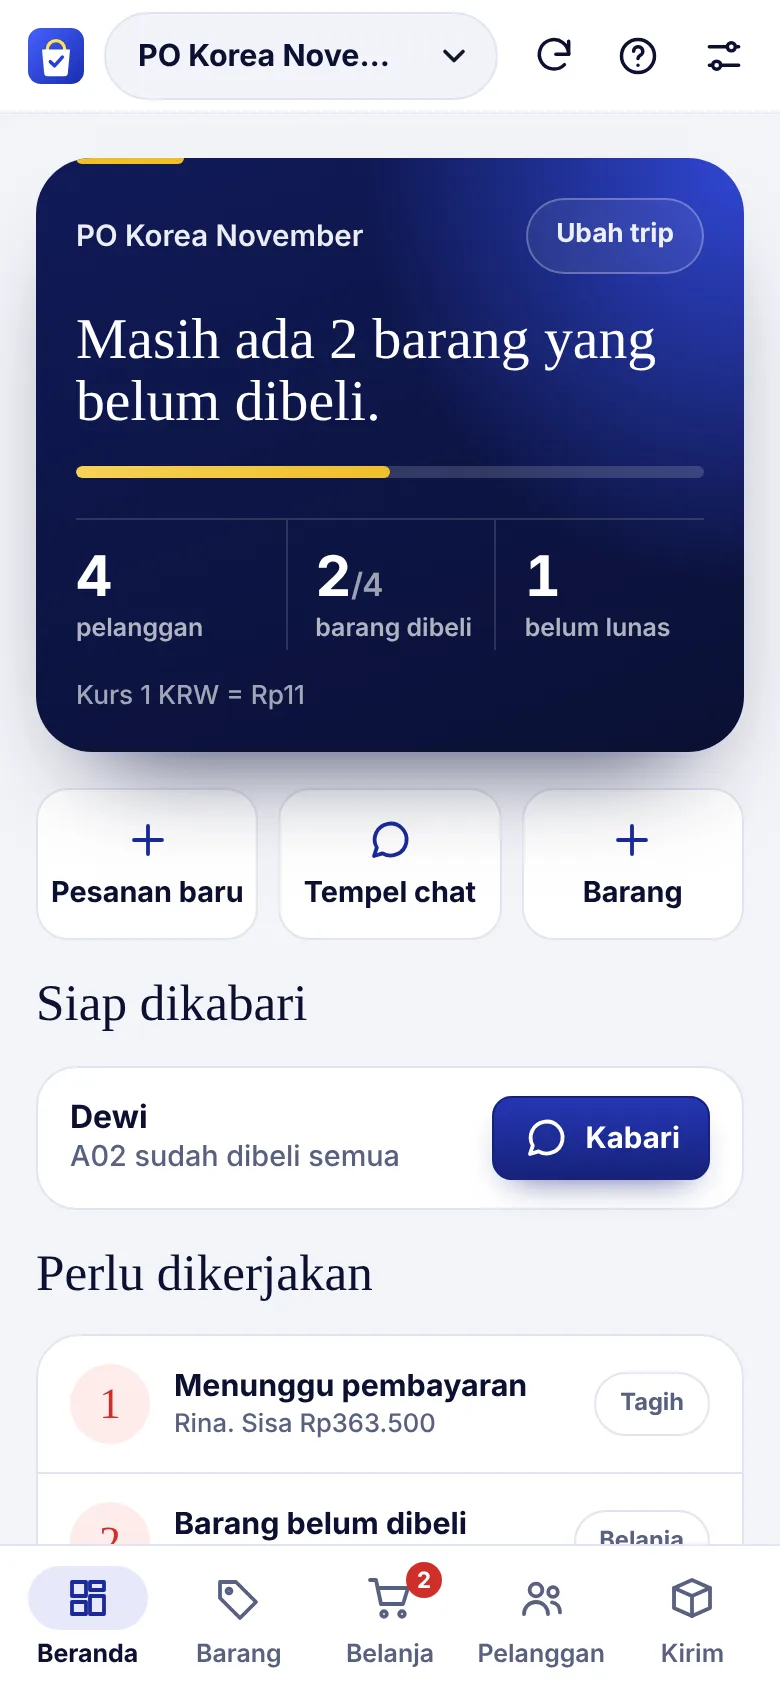
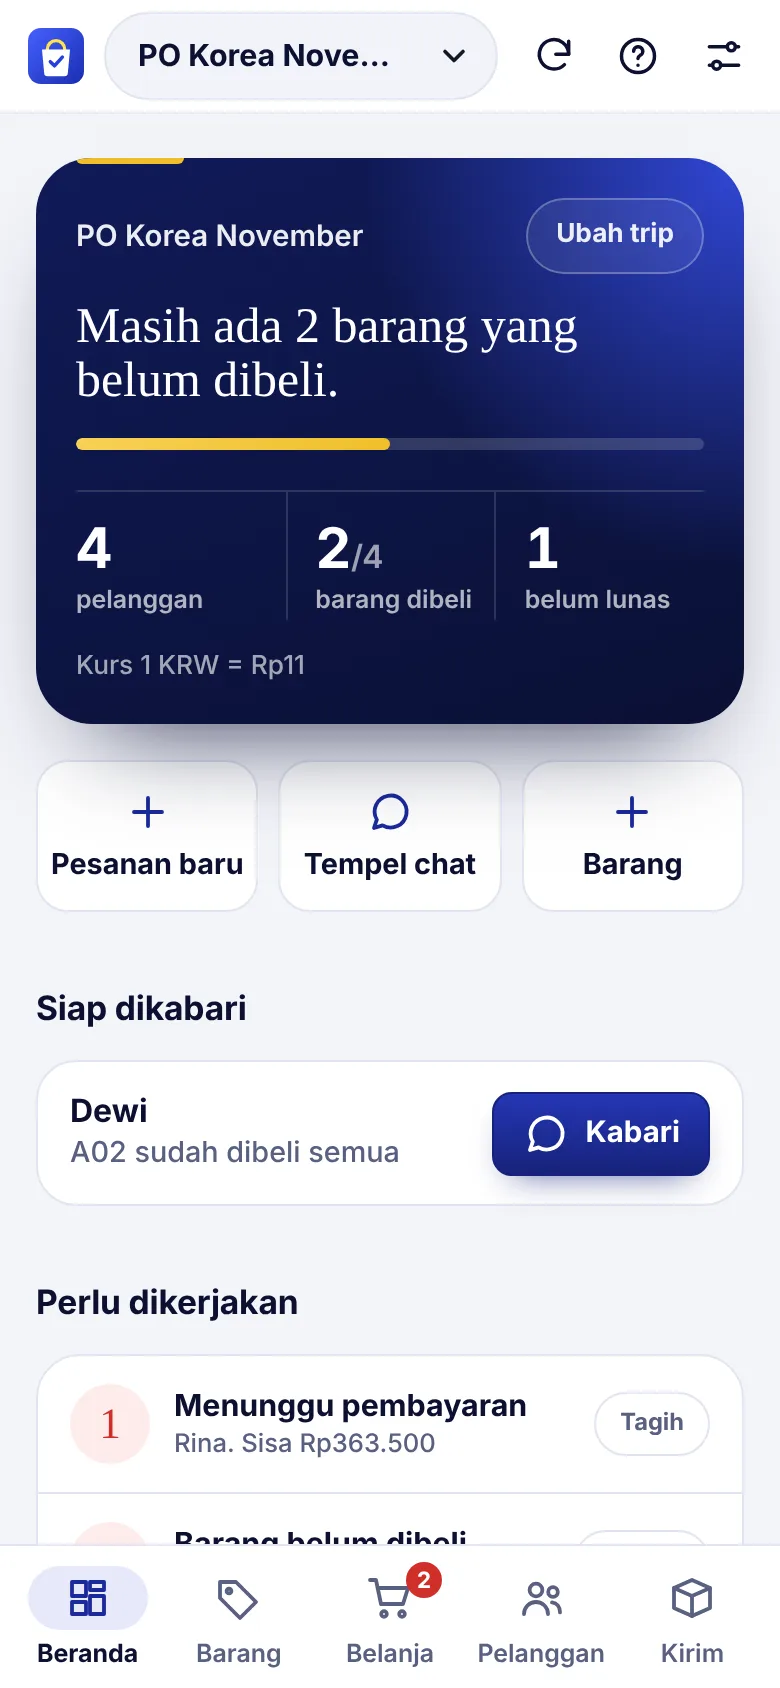
Beranda owner lebih ringkas: tiga kotak status pelanggan, rincian untung dilipat, judul bagian seragam
Claude-Session: https://claude.ai/code/session_01Umsz8aQAUh9Fd5wyBKCHqJ

diff --git a/app.html b/app.html
@@ -693,6 +693,22 @@ details.more summary,.chipf{overflow-wrap:anywhere}
 
 .phero .pacts .btn{flex:0 0 auto;min-height:40px;padding:0 16px;font-size:.9rem}
 .groups .sec>.label>span:first-child{font-family:var(--f-body);font-weight:700;font-size:1.05rem;letter-spacing:-.005em}
+
+/* v2: beranda owner */
+.tri{display:grid;grid-template-columns:repeat(3,1fr);gap:10px}
+.tri-c{display:flex;flex-direction:column;align-items:flex-start;gap:4px;padding:14px;border:1px solid var(--rule);border-radius:18px;background:var(--surface);color:var(--ink);text-align:left;cursor:pointer;min-height:84px}
+.tri-c b{font-size:1.6rem;line-height:1;font-weight:700}
+.tri-c span{font-size:.82rem;color:var(--muted);font-weight:600;line-height:1.2}
+.tri-c.bad b{color:var(--red)}.tri-c.ok b{color:var(--green)}
+.tri-c:active{transform:scale(.98)}
+details.more{margin-top:4px}
+details.more>summary,details.gain-more>summary{list-style:none;cursor:pointer;min-height:44px;display:flex;align-items:center;font-weight:700;font-size:.9rem;color:var(--accent)}
+details.more>summary::-webkit-details-marker,details.gain-more>summary::-webkit-details-marker{display:none}
+details.gain-more[open]>summary{margin-bottom:6px}
+.gain-more .sh.sm{font-size:.95rem;margin:18px 0 4px}
+
+.sh,h2.sh{font-family:var(--f-body)!important;font-weight:700;font-size:1.05rem;letter-spacing:-.005em;margin:22px 0 10px}
+.lux-h{font-size:clamp(1.5rem,6.4vw,2rem);margin:14px 0 14px}
 </style>
 </head>
 <body>
@@ -1749,9 +1765,11 @@ function viewHome(C){
         (wa?'<a class="btn sm primary" target="_blank" rel="noopener" data-told="'+c.c.id+'" href="https://wa.me/'+wa+'?text='+encodeURIComponent(waReady(c,t))+'">'+ico('wa')+'Kabari</a>':'<button class="btn sm" data-act="cust-open" data-id="'+c.c.id+'">Isi nomor WA</button>')+'</div>'}).join('')+'</div></div>';
     var cnt={},tot=0;C.custs.forEach(function(c){if(c.stage!=='none'){cnt[c.stage]=(cnt[c.stage]||0)+1;tot++}});
     var lunasN=C.custs.filter(function(c){return c.stage!=='none'&&c.tagihan>0&&c.sisa<=0}).length;
-    pipeHtml='<div class="card"><h2 class="sh">Status pelanggan</h2><div class="pipe">'+STAGE.map(function(s){var n=cnt[s[0]]||0;
-      return '<button class="pr-row" data-act="stage" data-f="'+s[0]+'"><span class="pl">'+s[1]+'</span><span class="pt"><i class="s-'+s[2]+'" style="width:'+(tot?Math.max(n?6:0,Math.round(n/tot*100)):0)+'%"></i></span><b class="num">'+n+'</b></button>'}).join('')+
-      '</div><div class="okpill" style="margin-top:12px">'+dic('check')+'Lunas '+lunasN+' dari '+tot+' pelanggan</div></div>';
+    var nB=cnt.bayar||0,nS=cnt.sent||0,nM=Math.max(0,tot-nB-nS);
+    pipeHtml='<section class="sec"><h2 class="sh">Pelanggan</h2><div class="tri">'+
+      '<button class="tri-c bad" data-act="stage" data-f="bayar"><b class="num">'+nB+'</b><span>Belum bayar</span></button>'+
+      '<button class="tri-c" data-act="tab" data-tab="kirim"><b class="num">'+nM+'</b><span>Siap diproses</span></button>'+
+      '<button class="tri-c ok" data-act="tab" data-tab="kirim"><b class="num">'+nS+'</b><span>Sudah terkirim</span></button></div></section>';
   }
   var nCust=C.custs.filter(function(c){return c.tagihan>0||c.rows.length||c.wait.length||c.habis.length}).length;
   var net=T.estRev+T.ong-T.estCost-(+t.biayaLain||0);
@@ -1760,16 +1778,16 @@ function viewHome(C){
     '<dl class="lux-st"><div><dd>'+nCust+'</dd><dt>pelanggan</dt></div><div><dd>'+doneN+'<small>/'+T.codes+'</small></dd><dt>barang dibeli</dt></div><div><dd>'+piut.length+'</dd><dt>belum lunas</dt></div></dl>'+
     (meta?'<p class="lux-meta">'+meta+'</p>':'')+'</section>'+
     '<div class="quick"><button class="btn" data-act="line-new">'+ico('plus')+'Pesanan baru</button><button class="btn" data-act="import-open">'+ico('wa')+'Tempel chat</button><button class="btn" data-act="item-new">'+ico('plus')+'Barang</button></div>'+siapHtml+
-    '<section class="sec"><h2 class="sh">Perlu dikerjakan</h2><div class="prio">'+(rows.length?rows.join(''):'<div class="okpill">'+dic('check')+'Tidak ada yang tertunda.</div>')+'</div></section></div>';
-  h+='<div class="col">'+(owner?'<section class="gain"><div class="gain-l">Perkiraan untung bersih</div><div class="gain-v">'+rp(net)+'</div><div class="gain-s">Margin '+(T.estRev>0?Math.round(net/T.estRev*100):0)+'% dari omzet</div>'+'<button class="linkbtn" data-act="trip-edit" style="margin-top:8px">Fee jastip '+nf(t.feePct||0)+'%'+(+t.feeFlat?' + Rp'+nf(t.feeFlat)+'/barang':'')+' · Ubah</button>'+
-      '<div class="fin2"><div><span>Omzet</span><span>'+rp(T.estRev)+'</span></div>'+(T.ong>0?'<div><span>Ongkir dari pelanggan</span><span>+ '+rp(T.ong)+'</span></div>':'')+'<div><span>Modal barang</span><span>− '+rp(T.estCost)+'</span></div>'+(+t.biayaLain?'<div><span>Biaya lain</span><span>− '+rp(t.biayaLain)+'</span></div>':'')+'</div></section>':'')+
+    '<section class="sec"><h2 class="sh">Perlu dikerjakan</h2><div class="prio">'+(rows.length?rows.slice(0,4).join('')+(rows.length>4?'<details class="more"><summary>Lihat '+(rows.length-4)+' lainnya</summary>'+rows.slice(4).join('')+'</details>':''):'<div class="okpill">'+dic('check')+'Tidak ada yang tertunda.</div>')+'</div></section></div>';
+  h+='<div class="col">'+(owner?'<section class="gain"><div class="gain-l">Perkiraan untung bersih</div><div class="gain-v">'+rp(net)+'</div><div class="gain-s">Margin '+(T.estRev>0?Math.round(net/T.estRev*100):0)+'% dari omzet</div>'+'<details class="gain-more"><summary>Lihat rincian</summary>'+'<button class="linkbtn" data-act="trip-edit" style="margin-top:8px">Fee jastip '+nf(t.feePct||0)+'%'+(+t.feeFlat?' + Rp'+nf(t.feeFlat)+'/barang':'')+' · Ubah</button>'+
+      '<div class="fin2"><div><span>Omzet</span><span>'+rp(T.estRev)+'</span></div>'+(T.ong>0?'<div><span>Ongkir dari pelanggan</span><span>+ '+rp(T.ong)+'</span></div>':'')+'<div><span>Modal barang</span><span>− '+rp(T.estCost)+'</span></div>'+(+t.biayaLain?'<div><span>Biaya lain</span><span>− '+rp(t.biayaLain)+'</span></div>':'')+'</div>@@LIST@@</details></section>':'')+
     (pipeHtml?pipeHtml:'');
   if(owner){
     var list=C.items.filter(function(i){return C.per[i.id].ordered>0}).map(function(i){var p=C.per[i.id];
       return '<div class="row"><span class="code">'+esc(i.kode)+'</span><div class="grow"><div class="t">'+esc(i.nama)+'</div><div class="sub">Terjual '+p.alloc+' pcs, omzet '+rp(p.revenue)+'</div></div><div class="end">'+(i.status==='dibeli'?'<b>'+rp(p.profit)+'</b><span class="small muted">untung</span>':'<span class="small muted">belum dibeli</span>')+'</div></div>'}).join('');
-    h+='<section class="card"><h2 class="sh">Untung per barang</h2><div class="list">'+(list||'<div class="empty">Belum ada pesanan.</div>')+'</div><p class="small muted" style="margin:10px 0 0">Dihitung dari semua pesanan aktif. Untung per barang baru muncul setelah barangnya dibeli.</p></section>';
+    h=h.replace('@@LIST@@','<h3 class="sh sm">Untung per barang</h3><div class="list">'+(list||'<div class="empty">Belum ada pesanan.</div>')+'</div><p class="small muted" style="margin:10px 0 0">Dihitung dari semua pesanan aktif. Untung per barang baru muncul setelah barangnya dibeli.</p>');
   }
-  h+='</div></div>';
+  h=h.replace('@@LIST@@','');h+='</div></div>';
   return h;
 }
 
